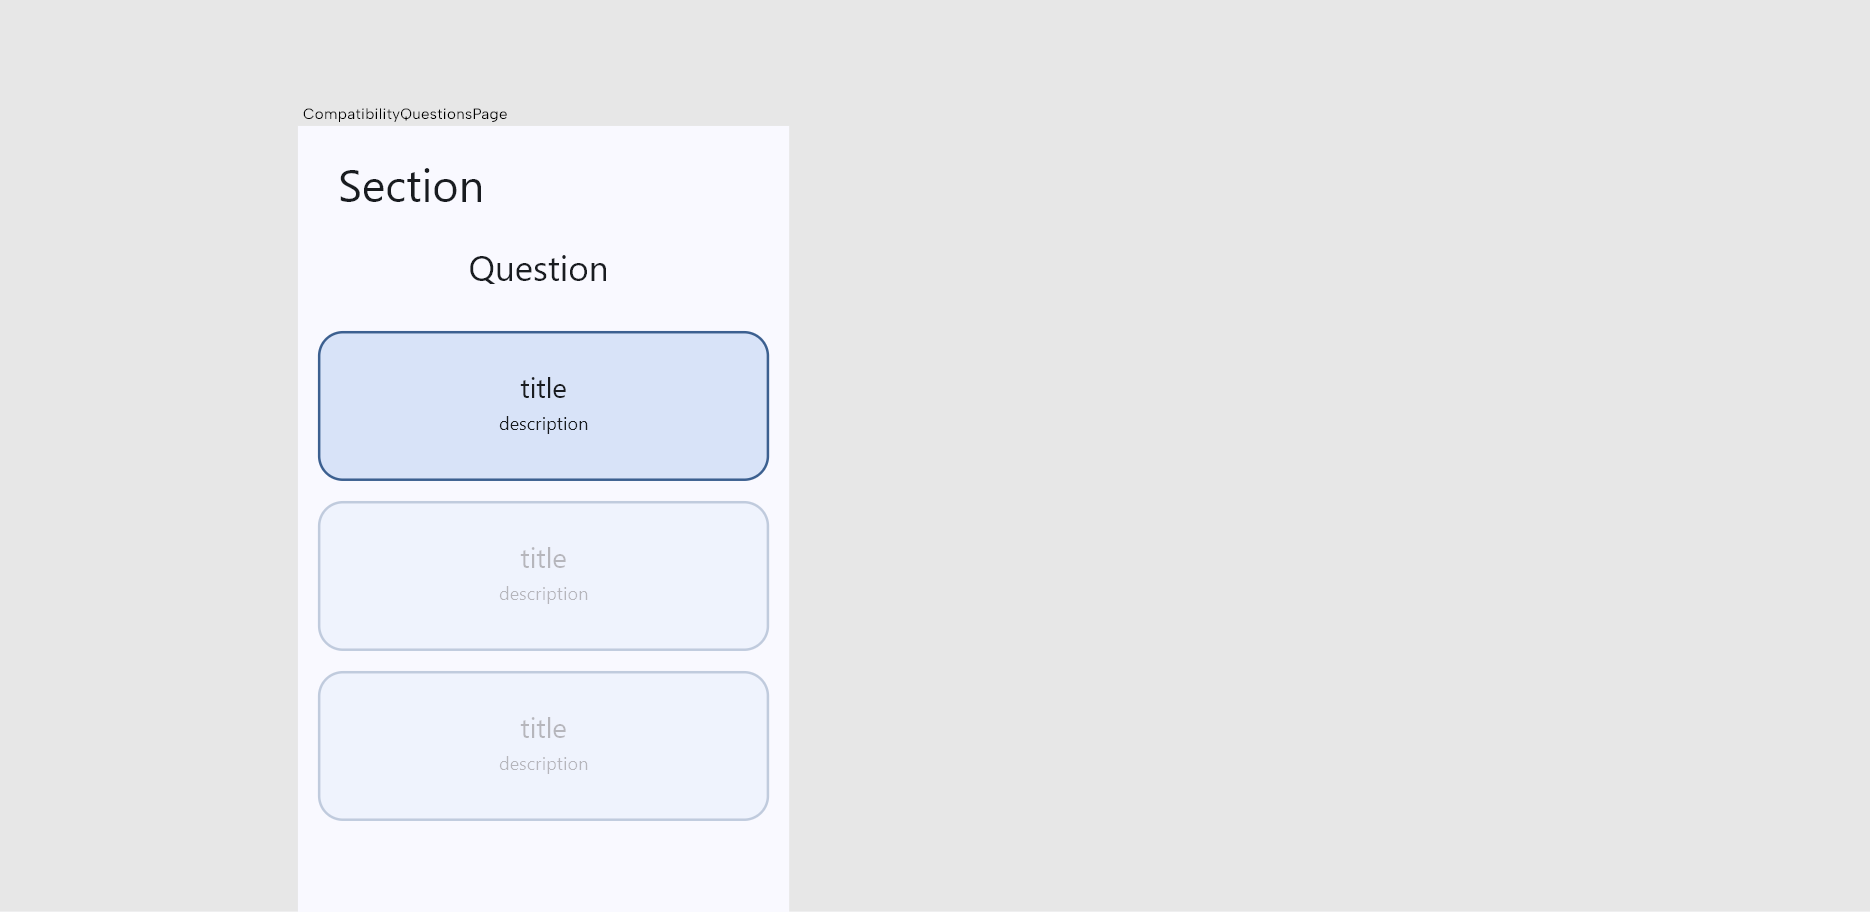
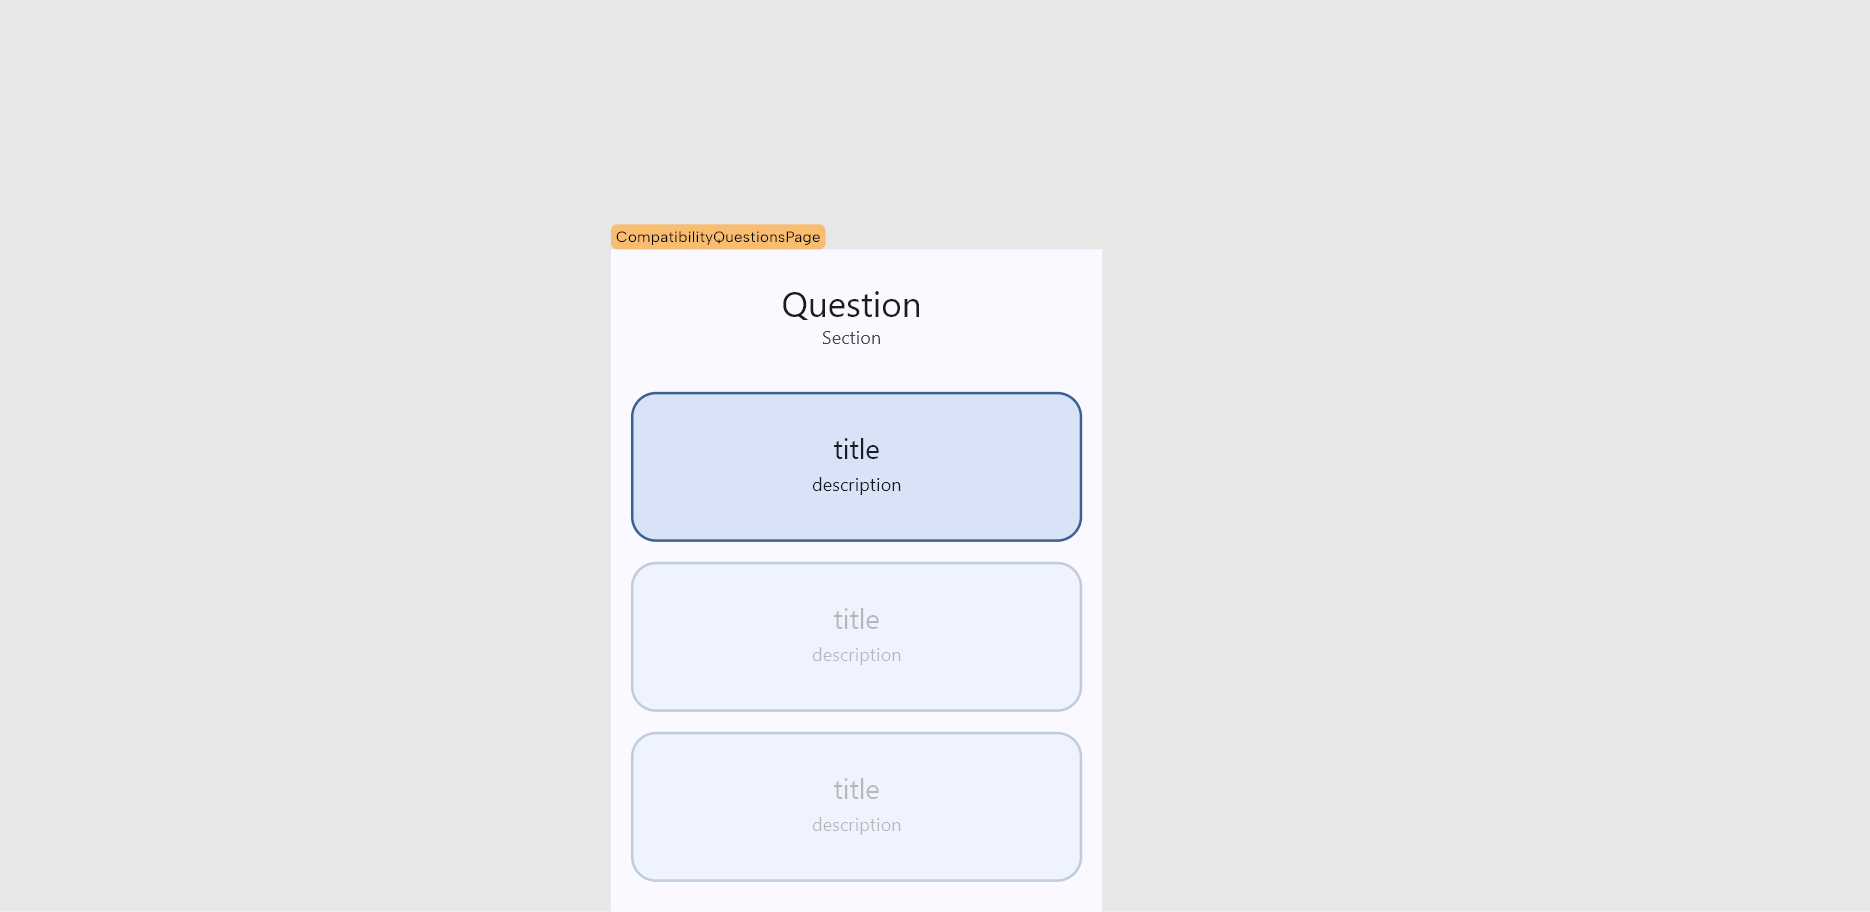
♻ Refactor QuestionsPage: simplify data loading

diff --git a/lib/pages/compatibility_questions_page.dart b/lib/pages/compatibility_questions_page.dart
@@ -24,32 +24,6 @@ class CompatibilityQuestionsPage extends StatelessWidget {
           crossAxisAlignment: CrossAxisAlignment.center,
           children: [
             FlexSizedBox(
-              width: null,
-              height: null,
-              child: DataBuilder<CompatibilityQuestionsModel?>(
-                builder: (context, data) => ListTile(
-                  title: Text(
-                    data?.section_id?.label['en'] ?? 'Section',
-                    style: Theme.of(context).textTheme.displaySmall,
-                  ),
-                ),
-                loadingWidget: const Align(
-                  alignment: Alignment(0.0, 0.0),
-                  child: CircularProgressIndicator(),
-                ),
-                errorBuilder: (context, error) => Align(
-                  alignment: const Alignment(0.0, 0.0),
-                  child: Text(
-                    error.toString(),
-                    style: const TextStyle(color: Color(0xffff0000)),
-                  ),
-                ),
-                future: SupabaseService().getByIdCompatibility_question(
-                  questionId!,
-                ),
-              ),
-            ),
-            FlexSizedBox(
               width: double.infinity,
               child: DataBuilder<CompatibilityQuestionsModel?>(
                 builder: (context, data) => ListTile(
@@ -57,6 +31,10 @@ class CompatibilityQuestionsPage extends StatelessWidget {
                     data?.label['en'] ?? 'Question',
                     textAlign: TextAlign.center,
                     style: Theme.of(context).textTheme.headlineMedium,
+                  ),
+                  subtitle: Text(
+                    data?.section_id?.label['en'] ?? 'Section',
+                    textAlign: TextAlign.center,
                   ),
                 ),
                 loadingWidget: const Align(
